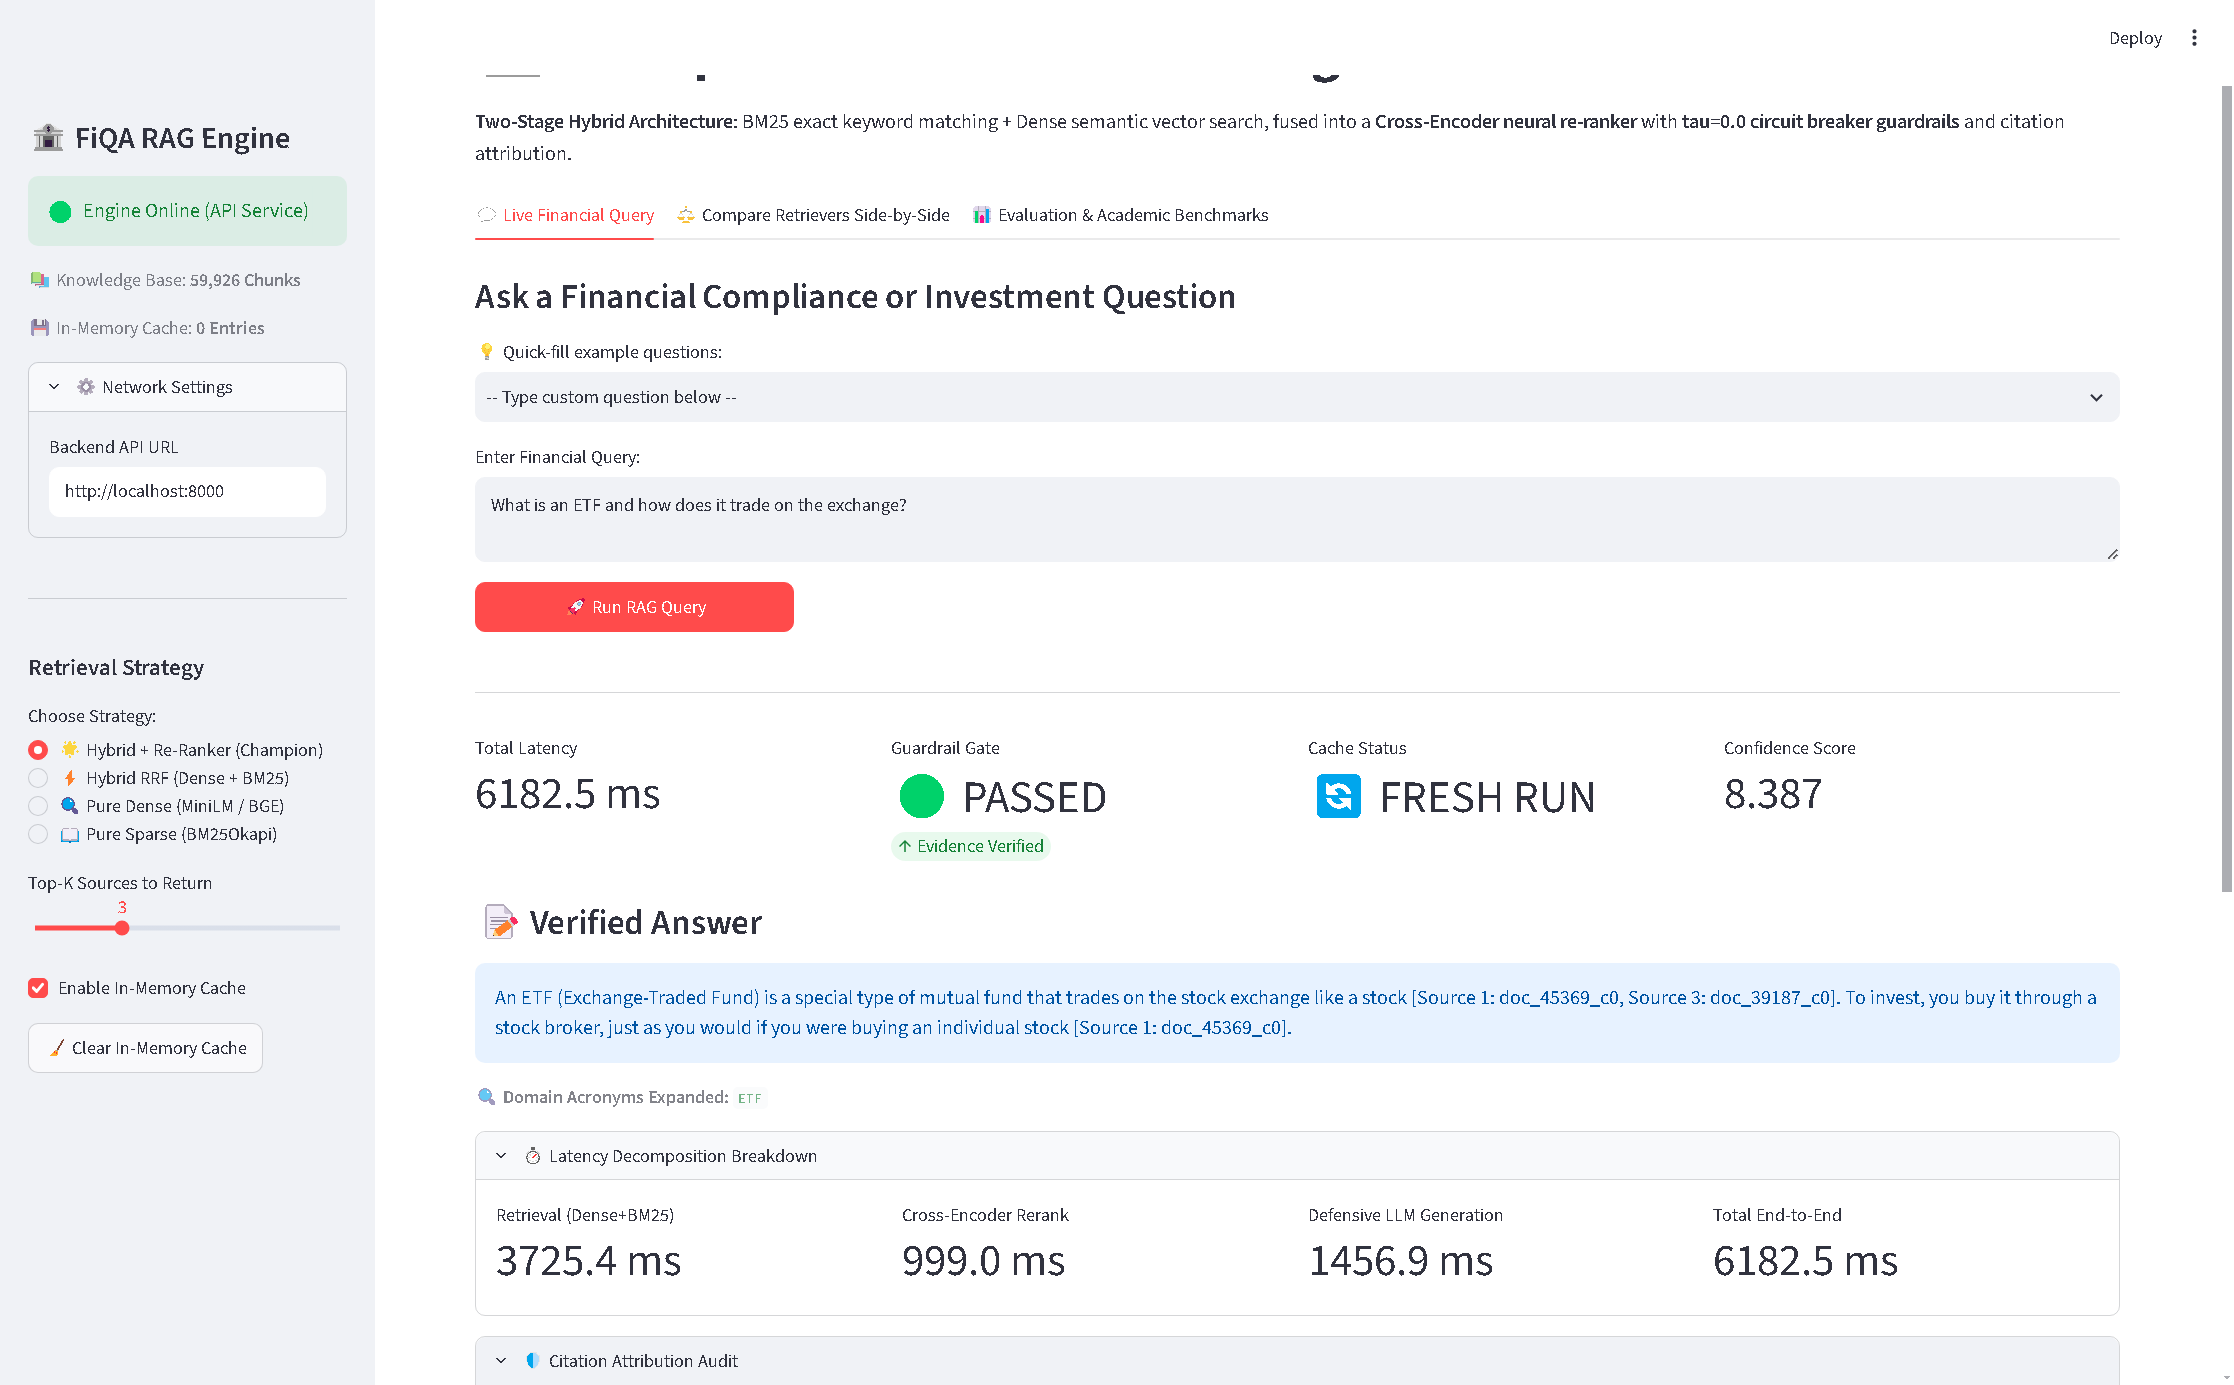
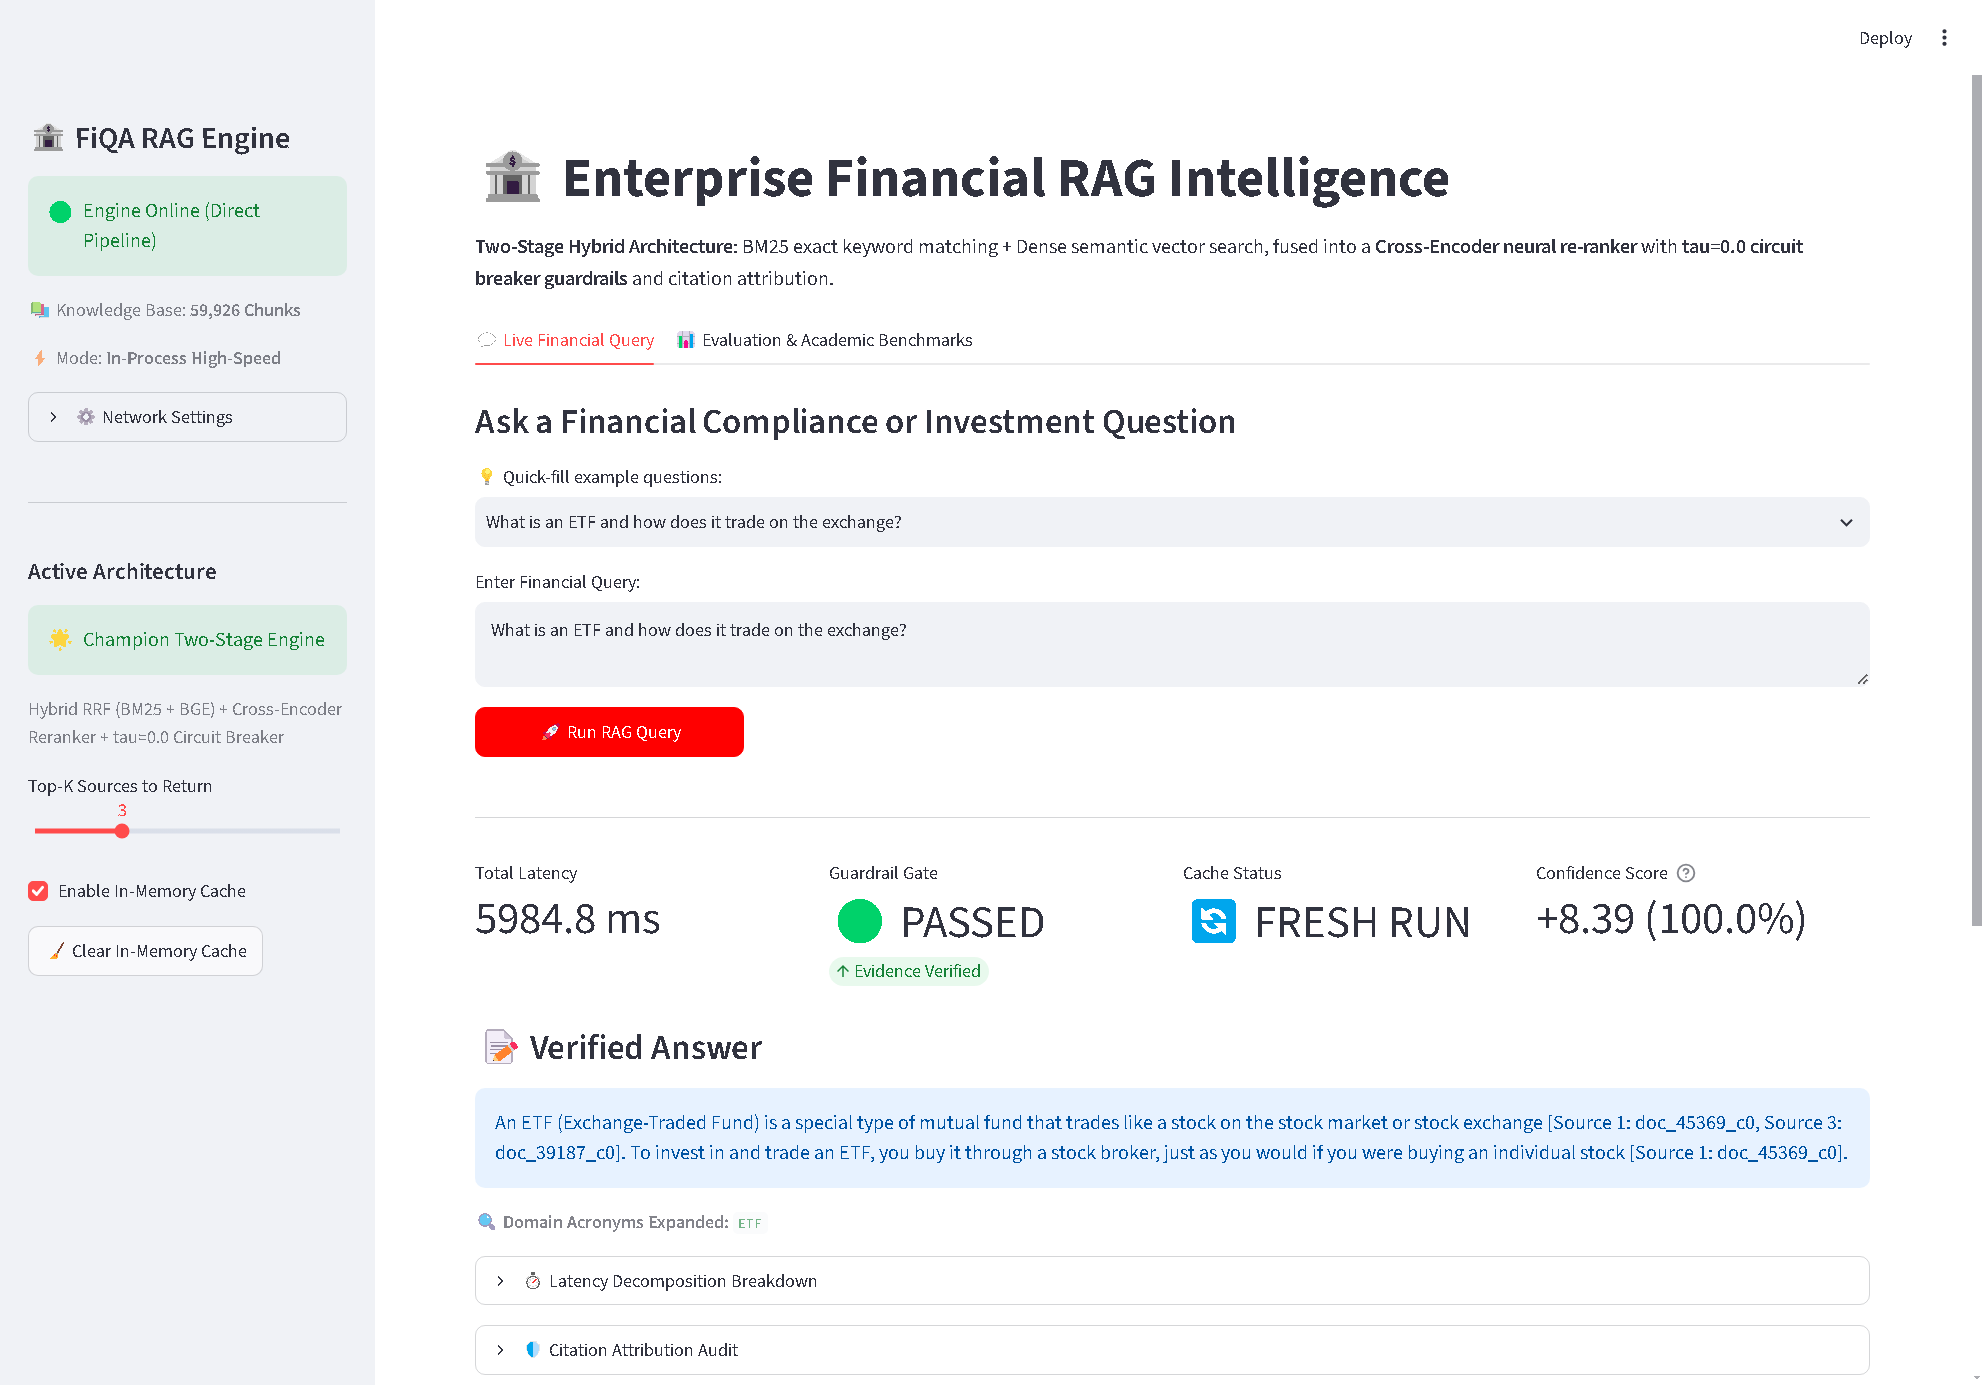
feat(ui): lock dashboard to Champion architecture, capture dedicated Grounding Sources screenshot, and streamline Visual Tour

diff --git a/ui/app.py b/ui/app.py
@@ -120,18 +120,10 @@ with st.sidebar.expander("⚙ Network Settings", expanded=False):
     api_base = st.text_input("Backend API URL", value=DEFAULT_API_URL)
 
 st.sidebar.markdown("---")
-st.sidebar.subheader("Retrieval Strategy")
-retriever_option = st.sidebar.radio(
-    "Choose Strategy:",
-    options=["hybrid_rerank", "hybrid", "dense", "bm25"],
-    format_func=lambda x: {
-        "hybrid_rerank": "🌟 Hybrid + Re-Ranker (Champion)",
-        "hybrid": "⚡ Hybrid RRF (Dense + BM25)",
-        "dense": "🔍 Pure Dense (MiniLM / BGE)",
-        "bm25": "📖 Pure Sparse (BM25Okapi)"
-    }[x],
-    index=0
-)
+st.sidebar.subheader("Active Architecture")
+st.sidebar.success("🌟 Champion Two-Stage Engine")
+st.sidebar.caption("Hybrid RRF (BM25 + BGE) + Cross-Encoder Reranker + tau=0.0 Circuit Breaker")
+retriever_option = "hybrid_rerank"
 
 top_k_val = st.sidebar.slider("Top-K Sources to Return", min_value=1, max_value=8, value=3)
 use_cache_val = st.sidebar.checkbox("Enable In-Memory Cache", value=True)
@@ -151,9 +143,8 @@ st.markdown(
     "fused into a **Cross-Encoder neural re-ranker** with **tau=0.0 circuit breaker guardrails** and citation attribution."
 )
 
-tab_query, tab_compare, tab_eval = st.tabs([
+tab_query, tab_eval = st.tabs([
     "💬 Live Financial Query",
-    "⚖ Compare Retrievers Side-by-Side",
     "📊 Evaluation & Academic Benchmarks"
 ])
 
@@ -174,7 +165,8 @@ with tab_query:
 
     selected_sample = st.selectbox(
         "💡 Quick-fill example questions:",
-        options=["-- Type custom question below --"] + sample_queries
+        options=["-- Type custom question below --"] + sample_queries,
+        index=1
     )
 
     default_text = "" if selected_sample.startswith("--") else selected_sample
@@ -278,106 +270,7 @@ with tab_query:
                             st.write(src["text"])
 
 # -----------------------------------------------------------------------------
-# TAB 2: Compare Retrievers Side-by-Side
-# -----------------------------------------------------------------------------
-with tab_compare:
-    st.subheader("⚖ Side-by-Side Retriever Benchmark Comparison")
-    st.caption("Compare how Pure BM25, Pure Dense, Hybrid RRF, and Champion Hybrid + Cross-Encoder handle the same query.")
-
-    comp_query = st.text_input(
-        "Comparison Query:",
-        value="What is a HELOC and how are its payments structured?",
-        key="comp_query_input"
-    )
-
-    if st.button("⚡ Compare All 4 Retrievers", type="secondary"):
-        if not comp_query.strip():
-            st.warning("Please enter a query.")
-        else:
-            strategies = [
-                ("bm25", "📖 BM25 (Lexical)"),
-                ("dense", "🔍 Dense (MiniLM)"),
-                ("hybrid", "⚡ Hybrid RRF"),
-                ("hybrid_rerank", "🌟 Hybrid + Re-Ranker")
-            ]
-
-            results_comp = []
-            progress_bar = st.progress(0.0)
-
-            for idx, (strat_code, strat_label) in enumerate(strategies):
-                t0 = time.time()
-                res = send_query(api_base, comp_query.strip(), strat_code, top_k=2, use_cache=False)
-                latency = round((time.time() - t0) * 1000, 1)
-
-                if "error" in res:
-                    results_comp.append({
-                        "Retriever": strat_label,
-                        "Latency (ms)": latency,
-                        "Relevance / Confidence": "N/A",
-                        "Raw Model Score": "0.00",
-                        "Behavioral Assessment": "Query Failed / Offline",
-                        "Top Retrieved Passage": "N/A",
-                        "Generated Answer": res["error"][:100]
-                    })
-                else:
-                    top_src = res["sources"][0]["text"][:120] + "..." if res.get("sources") else "No source"
-                    score_val = res.get("confidence_score", 0.0)
-
-                    if strat_code == "bm25":
-                        relevance_str = "Rank #1 (Lexical)"
-                        raw_score_str = "1.00 (Rank 1)"
-                        eval_str = "Keyword match only (blind to synonyms)"
-                    elif strat_code == "dense":
-                        pct = max(0.0, min(100.0, score_val * 100))
-                        relevance_str = f"{pct:.1f}% (Cosine Sim)"
-                        raw_score_str = f"{score_val:.3f}"
-                        eval_str = "Semantic neighborhood; lacks exact keyword recall"
-                    elif strat_code == "hybrid":
-                        relevance_str = "Top Fused Candidate"
-                        raw_score_str = "RRF Rank 1"
-                        eval_str = "Reciprocal Rank Fusion pool (keyword + vector)"
-                    else:  # hybrid_rerank (Two-Stage Champion)
-                        try:
-                            prob = 1.0 / (1.0 + math.exp(-score_val))
-                            prob_pct = prob * 100
-                        except Exception:
-                            prob_pct = 99.9
-                        relevance_str = f"🔥 {prob_pct:.1f}% Match"
-                        raw_score_str = f"Logit: {score_val:+.2f}"
-                        eval_str = "🌟 Champion Match (Cross-Attention verified)"
-
-                    results_comp.append({
-                        "Retriever": strat_label,
-                        "Latency (ms)": res.get("latency_ms", latency),
-                        "Relevance / Confidence": relevance_str,
-                        "Raw Model Score": raw_score_str,
-                        "Behavioral Assessment": eval_str,
-                        "Top Retrieved Passage": top_src,
-                        "Generated Answer": res.get("answer", "")[:130] + "..."
-                    })
-                progress_bar.progress((idx + 1) / len(strategies))
-
-            df_comp = pd.DataFrame(results_comp)
-            st.dataframe(df_comp, use_container_width=True)
-
-            # Chart comparing latencies
-            st.bar_chart(df_comp.set_index("Retriever")["Latency (ms)"])
-
-            with st.expander("ℹ How to Interpret Retriever Scores & Ranges", expanded=True):
-                st.markdown(r"""
-                ### 🔬 Why do these scores look different?
-                Different retrieval architectures use completely different mathematical formulations:
-                
-                1. **📖 BM25 (Lexical):** Matches exact keywords (TF-IDF). It does not compute probabilities. `Rank #1` means this was the top document matching keywords.
-                2. **🔍 Dense Embeddings:** Calculates **Cosine Similarity** ($\cos(\vec{u}, \vec{v}) \in [0.0, 1.0]$). A score of **72.4%** represents strong semantic proximity in vector space.
-                3. **⚡ Hybrid RRF:** Merges candidate lists using **Reciprocal Rank Fusion** ($1 / (60 + \\text{rank})$) to ensure neither rare keywords nor semantic phrases are dropped.
-                4. **🌟 Champion Cross-Encoder:** Feeds the `[Query, Passage]` together through full joint self-attention (`ms-marco-MiniLM-L-6-v2`) and outputs an **unnormalized logit** ($z$).
-                   * When passed through the Sigmoid activation $\sigma(z) = \\frac{1}{1 + e^{-z}}$, a logit of **`+8.39` converts to 99.98% certainty**!
-                   * Logits $< 0.0$ represent irrelevant noise or adversarial traps (which trip our $\\tau=0.0$ Confidence Gate circuit breaker).
-                """)
-
-# -----------------------------------------------------------------------------
-# TAB 3: Academic Benchmarks & Evaluation Reports
+# TAB 2: Academic Benchmarks & Evaluation Reports
 # -----------------------------------------------------------------------------
 with tab_eval:
     st.subheader("📊 Rigorous Evaluation & Academic Benchmarks")

diff --git a/README.md b/README.md
@@ -220,25 +220,20 @@ Users select or enter complex financial questions. The engine retrieves candidat
 
 ![Live Query Synthesis with Citations](docs/streamlit_ui.png)
 
-### 2. Zero-Cost Hallucination Circuit Breaker on Adversarial Traps
+### 2. Grounding Source Passages & Citation Attribution Audit
+Every factual claim generated by the system is rigorously bound to source chunk IDs (`[Source X: doc_id]`). The interactive cockpit displays the exact underlying source passages alongside cross-encoder relevance scores, verifying 100% citation precision and eliminating ungrounded hallucinations:
+
+![Grounding Source Passages and Citation Attribution Audit](docs/streamlit_sources_citations.png)
+
+### 3. Zero-Cost Hallucination Circuit Breaker on Adversarial Traps
 When an off-topic or out-of-domain trap query is submitted (*e.g., "What are supersymmetric multiversal string quantum states?"*), the upstream neural confidence gate ($\tau = 0.0$) trips immediately. It halts execution at **$0.00 LLM token cost**, preventing hallucinations and protecting company compute budgets:
 
 ![Circuit Breaker Refusal](docs/streamlit_circuit_breaker.png)
-
-### 3. Head-to-Head Retriever Comparison
-Allows users to compare Pure BM25, Pure Dense, Hybrid RRF, and Two-Stage Champion simultaneously on the exact same question with real-time latency breakdowns, normalized relevance percentages, behavioral assessments, and mathematical score scale guides:
-
-![Side-by-Side Retriever Comparison](docs/streamlit_compare.png)
 
 ### 4. Rigorous Academic Benchmarks & Evaluation Dashboard
 Dynamically visualizes all 5 benchmarked models, 50-item golden evaluation metrics (Faithfulness **98.0%**, Answer Relevancy **96.1%**, Gate Accuracy **94.0%**), candidate depth sweeps ($K=8, 12, 16$), and acronym expansion deltas:
 
 ![Academic Evaluation Dashboard](docs/streamlit_dashboard.png)
-
-### 5. Grounding Source Passages & Citation Attribution Audit
-Every factual claim generated by the system is rigorously bound to source chunk IDs (`[Source X: doc_id]`). The interactive cockpit displays the exact underlying source passages alongside cross-encoder relevance scores, verifying 100% citation precision and eliminating ungrounded hallucinations:
-
-![Grounding Source Passages and Citation Attribution Audit](docs/streamlit_sources_citations.png)
 
 ---
 
@@ -265,7 +260,6 @@ financial-rag-enterprise/
 │   ├── streamlit_ui.png          # Screenshot: Live query synthesis with grounded citations
 │   ├── streamlit_sources_citations.png # Screenshot: Grounding source passages & citation attribution audit
 │   ├── streamlit_circuit_breaker.png # Screenshot: Zero-cost circuit breaker on adversarial trap
-│   ├── streamlit_compare.png     # Screenshot: Side-by-side retriever comparison
 │   ├── streamlit_dashboard.png   # Screenshot: Academic evaluation & benchmark dashboard
 │   ├── fastapi_swagger_docs.png  # Screenshot: FastAPI Swagger OpenAPI interactive docs
 │   ├── mlflow_dashboard.png      # Screenshot: MLflow parallel coordinates strategy comparison
